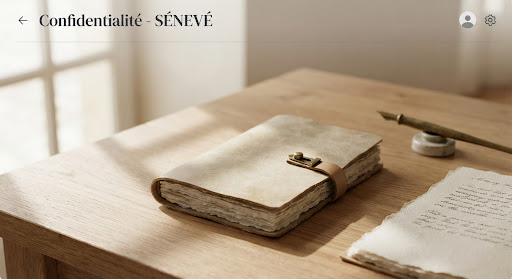
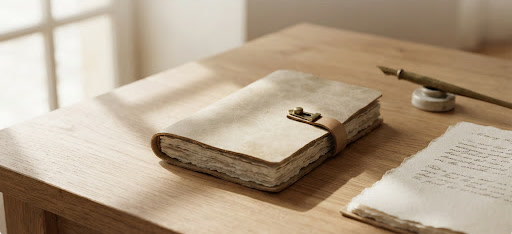
Images sans morceaux de maquette ; test « Et après ? » stable
- Recadrage de trois illustrations qui contenaient des éléments d'interface des maquettes Stitch :
  confidentialité (fausse barre « Confidentialité · SÉNEVÉ »), page introuvable (texte « Page introuvable 404 »
  dans le ciel), journal (cadre de navigateur ; image non utilisée pour l'instant).
- Test « Et après ? » : délai d'attente porté à 5 s, la page de l'espace mettant plus d'une seconde
  à s'afficher quand toute la suite tourne.

diff --git a/src/test/suite.test.tsx b/src/test/suite.test.tsx
@@ -67,7 +67,8 @@ describe('Et après ? (espace)', () => {
   it('le dernier jour : offres suivantes, prix du catalogue, bouton seulement si un lien existe', async () => {
     vi.setSystemTime(new Date('2026-10-14T12:00:00Z'));   // jour 14
     render(<MemoryRouter><Espace /></MemoryRouter>);
-    const carte = await screen.findByRole('region', { name: 'Et après ?' });
+    // L'espace charge plusieurs tables simulées : 1 s ne suffit pas quand toute la suite tourne en même temps.
+    const carte = await screen.findByRole('region', { name: 'Et après ?' }, { timeout: 5000 });
     expect(carte).toHaveTextContent('Formation 30 jours — 39 USD');
     expect(carte).toHaveTextContent('Accompagnement personnel 30 jours — 99 USD');
     expect(carte).not.toHaveTextContent('Formation 90 jours');
@@ -79,7 +80,7 @@ describe('Et après ? (espace)', () => {
   it('pas de carte avant le dernier jour', async () => {
     vi.setSystemTime(new Date('2026-10-10T12:00:00Z'));   // jour 10
     render(<MemoryRouter><Espace /></MemoryRouter>);
-    expect((await screen.findAllByText('Thème 10')).length).toBeGreaterThan(0);
+    expect((await screen.findAllByText('Thème 10', {}, { timeout: 5000 })).length).toBeGreaterThan(0);
     expect(screen.queryByRole('region', { name: 'Et après ?' })).not.toBeInTheDocument();
   });
 });
